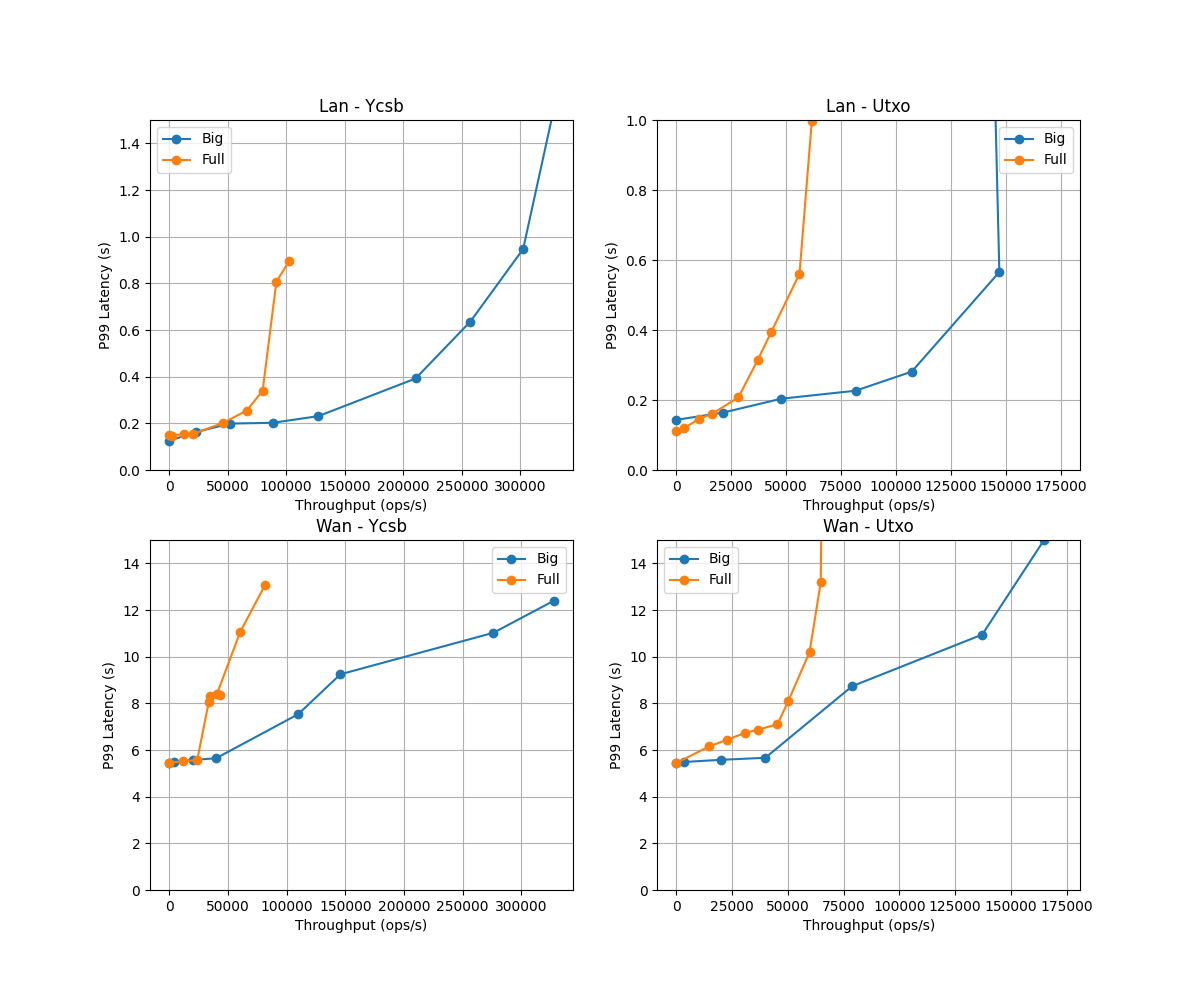
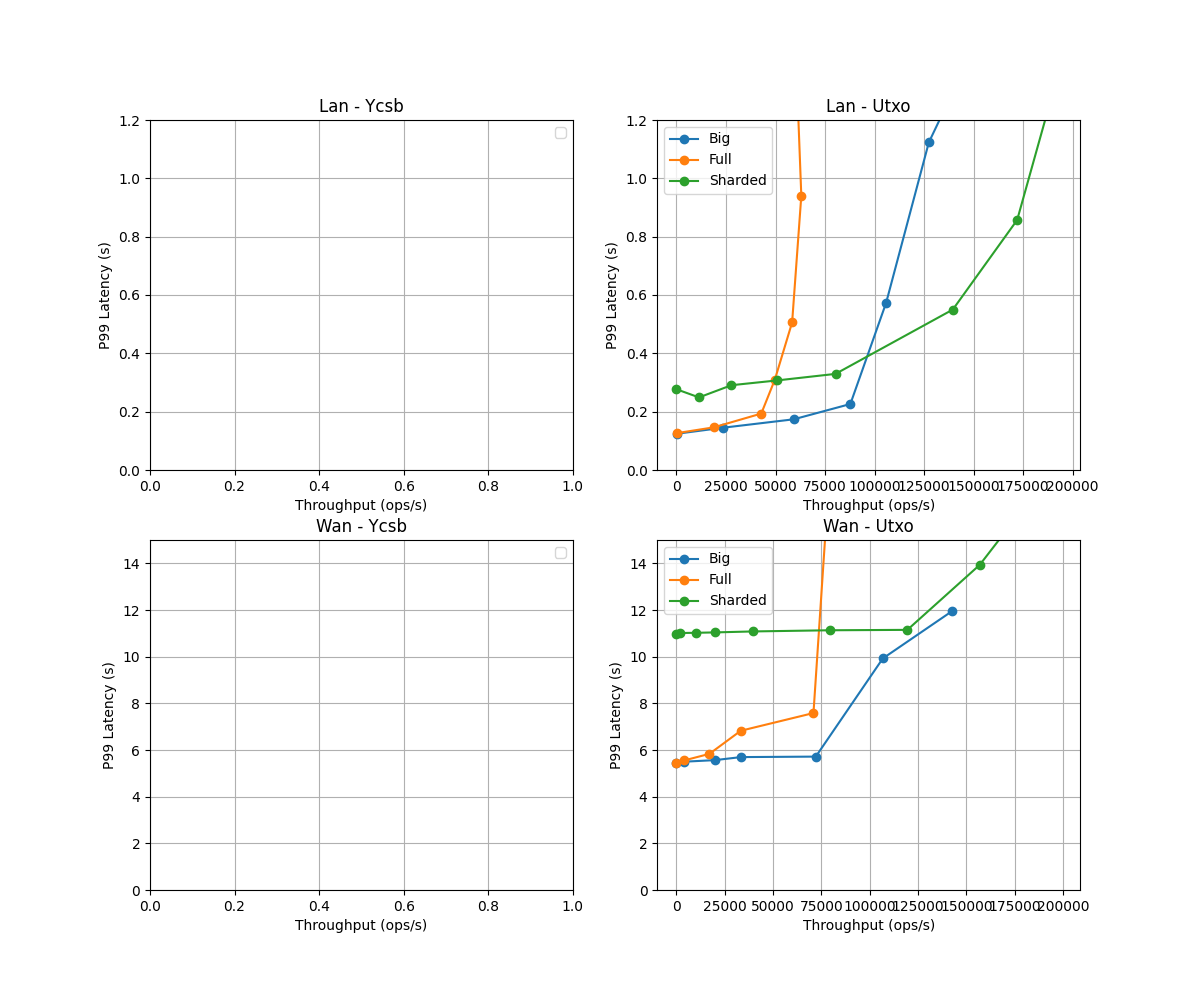
feat(data): utxo tput latency

diff --git a/control/src/bin/tput-latency.rs b/control/src/bin/tput-latency.rs
@@ -57,11 +57,9 @@ async fn main() -> anyhow::Result<()> {
             &[0, 100, 300, 600, 1000, 3000, 6000, 10_000, 20_000, 30_000][..]
         }
 
-        (Network::Lan, App::Utxo, Setting::Full) => {
-            &[0, 10, 50, 100, 200, 300, 500, 1000, 2000, 4000][..]
-        }
+        (Network::Lan, App::Utxo, Setting::Full) => &[0, 100, 300, 600, 1000, 2000, 4000, 6000][..],
         (Network::Lan, App::Utxo, Setting::Sharded) => {
-            &[0, 1000, 2000, 4000, 6000, 8000, 10_000, 15_000][..]
+            &[0, 100, 300, 600, 1000, 3000, 6000, 10_000, 12_000][..]
         }
         (Network::Lan, App::Utxo, Setting::Big) => {
             &[0, 100, 300, 600, 1000, 2000, 3000, 4000, 5000][..]
@@ -75,15 +73,11 @@ async fn main() -> anyhow::Result<()> {
             &[0, 1_000, 5_000, 10_000, 30_000, 60_000, 100_000, 130_000]
         }
 
-        (Network::Wan, App::Utxo, Setting::Full) => &[
-            0, 4000, 6000, 8000, 10_000, 13_000, 16_000, 20_000, 30_000, 40_000,
+        (Network::Wan, App::Utxo, Setting::Full) => &[0, 5_000, 10_000, 20_000, 40_000, 60_000],
+        (Network::Wan, App::Utxo, Setting::Sharded) => &[
+            0, 5_000, 10_000, 20_000, 40_000, 60_000, 80_000, 100_000, 150_000,
         ],
-        (Network::Wan, App::Utxo, Setting::Sharded) => {
-            &[0, 30_000, 60_000, 100_000, 200_000, 300_000]
-        }
-        (Network::Wan, App::Utxo, Setting::Big) => {
-            &[0, 1_000, 5_000, 10_000, 30_000, 60_000, 100_000, 130_000]
-        }
+        (Network::Wan, App::Utxo, Setting::Big) => &[0, 5_000, 10_000, 20_000, 40_000, 60_000],
     };
 
     for &num_concurrent in num_concurrent {
@@ -203,7 +197,11 @@ async fn run_workload(
     println!("start clients");
     start_all(client_instances, control_client.clone()).await?;
 
-    sleep(Duration::from_secs(10)).await;
+    sleep(Duration::from_secs(match NETWORK {
+        Network::Lan => 10,
+        Network::Wan => 20,
+    }))
+    .await;
     println!("scrape and discard warmup data");
     scrape_all(client_instances, control_client.clone()).await?;
     sleep(Duration::from_secs(30)).await;

diff --git a/data/tput-latency.py b/data/tput-latency.py
@@ -6,8 +6,6 @@ def plot(ax, df, network, app, ylim=None):
     # print(df)
     plot_df = df.filter((pl.col("network") == network) & (pl.col("app") == app))
     for setting in sorted(plot_df["setting"].unique()):
-        if setting == "Sharded":
-            continue
         setting_df = plot_df.filter((pl.col("setting") == setting))
         ax.plot(
             setting_df["tput"],
@@ -28,8 +26,8 @@ def plot(ax, df, network, app, ylim=None):
 fig, axs = plt.subplots(2, 2, figsize=(12, 10))
 df = pl.read_csv("data/tput-latency.csv")  # .filter(pl.col("_ignore") != True)
 print(df)
-plot(axs[0][0], df, "Lan", "Ycsb", ylim=1.5)
-plot(axs[0][1], df, "Lan", "Utxo", ylim=1.0)
+plot(axs[0][0], df, "Lan", "Ycsb", ylim=1.2)
+plot(axs[0][1], df, "Lan", "Utxo", ylim=1.2)
 plot(axs[1][0], df, "Wan", "Ycsb", ylim=15)
 plot(axs[1][1], df, "Wan", "Utxo", ylim=15)
 fig.savefig("data/tput-latency.png")
